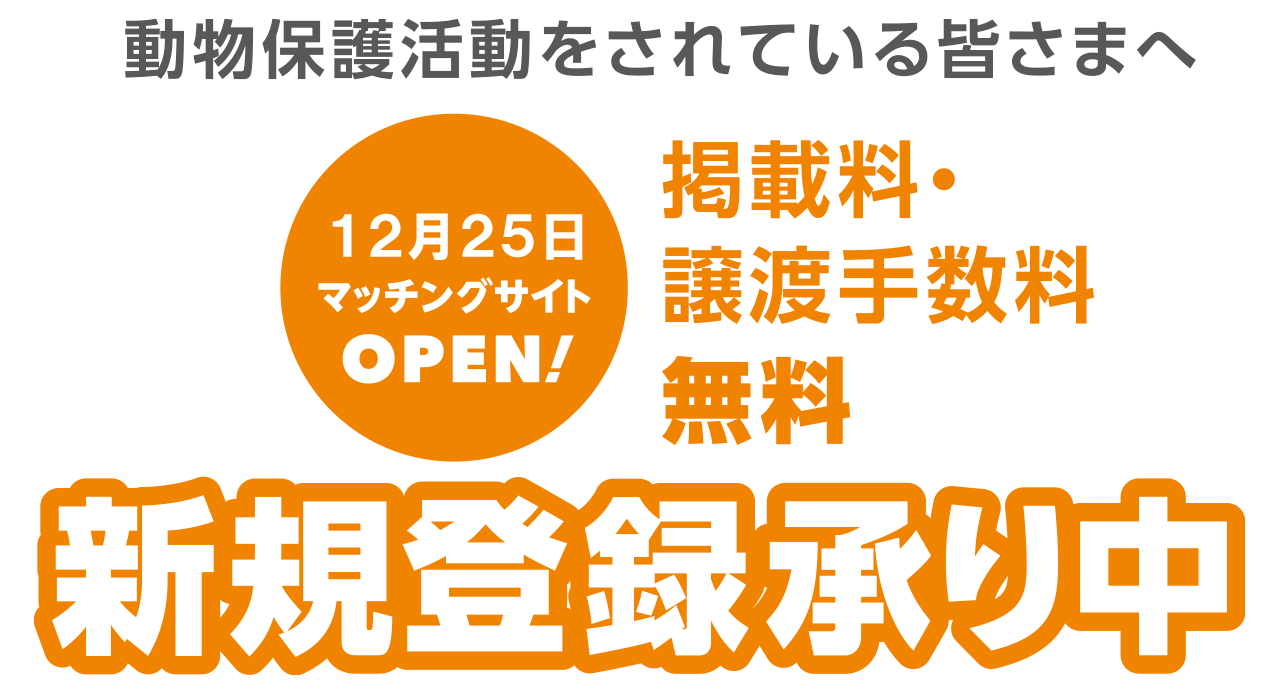
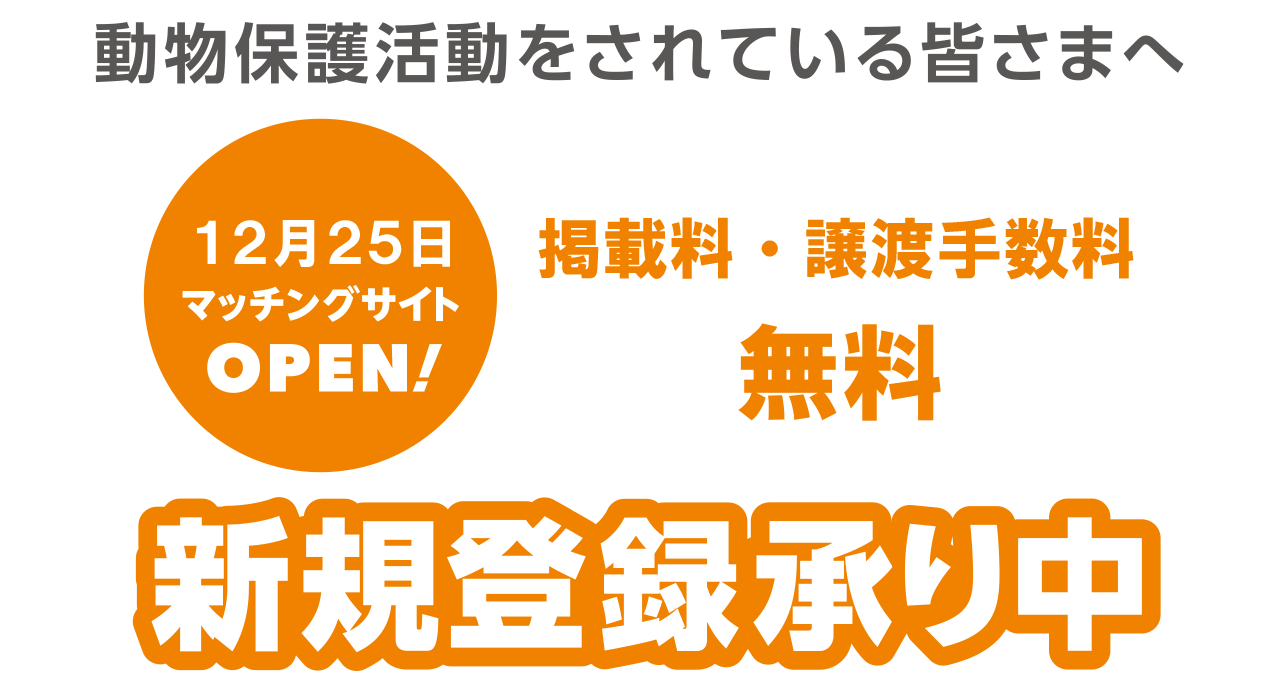
TOP修正

diff --git a/html/template/default/assets/css/reg/style.css b/html/template/default/assets/css/reg/style.css
@@ -60,6 +60,11 @@ a:active, a:focus,input:active, input:focus{outline:0;}
 	
 }
 
+.imgFull {
+	padding: 1.5rem 1rem 1.5rem 1rem;
+	text-align: center;
+}
+
 /* フッター
 ------------------------------------------------------------*/
 #footer{
@@ -155,6 +160,40 @@ section h2 span {
 	margin-bottom: 1.5rem;
 	margin-left: 1rem;
 	margin-right: 1rem;
+}
+
+.innerBorder{
+	margin: 2rem auto;
+	padding: 1.5rem 1.5rem 1.5rem 1.5rem;
+	margin-bottom: 1.5rem;
+	background-color: #FFF;
+	margin-left: 1rem;
+	margin-right: 1rem;
+
+	position: relative;
+	border: 1px solid rgb(0, 0, 0);
+	
+}
+.innerBorder:before {
+	  height: 0;
+	  display: block;
+	  position: absolute;
+	  left: -1.5px;
+	  content: "";
+	  border-top: solid 30px #fff;
+	  border-right: solid 30px transparent;
+	  top: -1.5px;
+	  z-index: 2;
+}
+.innerBorder:after {
+	  height: 0;
+	  display: block;
+	  position: absolute;
+	  left: -1px;
+	  content: "";
+	  border-top: solid 30px rgb(32, 31, 31);
+	  border-right: solid 30px transparent;
+	  top: -1px;
 }
 
 .SiteDescription{
@@ -255,6 +294,26 @@ a.btn--green {
 a.btn--green:hover {
 	color: #fff;
 	background: #028117;
+}
+
+.btn--brown,
+a.btn--brown {
+	color: #fff;
+	background-color: #543618;
+	width: 60%;
+}
+.btn--brown:hover,
+a.btn--brown:hover {
+	color: #fff;
+	background: #6b4622;
+}
+
+.btn--white,
+a.btn--white {
+	color: #000;
+	border: solid;
+	background-color: #FFF;
+	width: 60%;
 }
 
 /* SEC02 Gallery
@@ -429,7 +488,7 @@ Width <= 640px
 	a.btn,
 	button.btn {
 		margin: 1rem;
-		padding: 1.5rem 1rem;
+		padding: 1rem 1rem;
 		font-size:17px;
 	}
 }

diff --git a/html/template/default/assets/css/common.css b/html/template/default/assets/css/common.css
@@ -742,6 +742,34 @@ TOP
 }
 
 
+.top-content__container_text_btn_03{
+  text-align:center;
+}
+.top-content__container_text_btn_03 a{
+  padding:20px 20px;
+  margin-bottom:2rem;
+  border-radius:10px;
+  color:#fff;
+  font-size:20px;
+  font-weight:500;
+  letter-spacing:.1em;
+  position:relative;
+  display:block;
+}
+
+.top-content__container_text_btn_03 a:hover{
+  opacity:.8;
+}
+.top-content__container_text_btn_03 a i{
+  position:absolute;
+  top:20px;
+  left:20px;
+}
+
+.top-content__container_text_btn_03 a{
+  background-color:#f08200;
+}
+
 .top-content__container_text_btn{
   text-align:center;
 }
@@ -797,6 +825,35 @@ TOP
 .top-content__container_text_btn_02 a{
   background-color:#92d050;
 }
+
+.top-content__container_text_btn_04{
+  text-align:center;
+}
+.top-content__container_text_btn_04 a{
+  padding:20px 20px;
+  margin-bottom:2rem;
+  border-radius:10px;
+  color:#fff;
+  font-size:20px;
+  font-weight:500;
+  letter-spacing:.1em;
+  position:relative;
+  display:block;
+}
+
+.top-content__container_text_btn_04 a:hover{
+  opacity:.8;
+}
+.top-content__container_text_btn_04 a i{
+  position:absolute;
+  top:20px;
+  left:20px;
+}
+
+.top-content__container_text_btn_04 a{
+  background-color:#539b34;
+}
+
 
 
 #top-content article.top-content_01{

diff --git a/app/Customize/Service/MailService.php b/app/Customize/Service/MailService.php
@@ -27,6 +27,8 @@ use Eccube\Repository\MailHistoryRepository;
 use Eccube\Repository\MailTemplateRepository;
 use Symfony\Component\EventDispatcher\EventDispatcher;
 use Symfony\Component\EventDispatcher\EventDispatcherInterface;
+use Customize\Repository\BreedersRepository;
+use Customize\Repository\ConservationsRepository;
 
 class MailService
 {
@@ -66,6 +68,16 @@ class MailService
     protected $twig;
 
     /**
+     * @var BreedersRepository
+     */
+    protected $breedersRepository;
+
+    /**
+     * @var ConservationsRepository
+     */
+    protected $conservationsRepository;
+
+    /**
      * MailService constructor.
      *
      * @param \Swift_Mailer $mailer
@@ -75,6 +87,8 @@ class MailService
      * @param EventDispatcherInterface $eventDispatcher
      * @param \Twig_Environment $twig
      * @param EccubeConfig $eccubeConfig
+     * @param BreedersRepository $breedersRepository
+     * @param ConservationsRepository $conservationsRepository
      */
     public function __construct(
         \Swift_Mailer $mailer,
@@ -83,7 +97,9 @@ class MailService
         BaseInfoRepository $baseInfoRepository,
         EventDispatcherInterface $eventDispatcher,
         \Twig_Environment $twig,
-        EccubeConfig $eccubeConfig
+        EccubeConfig $eccubeConfig,
+        BreedersRepository $breedersRepository,
+        ConservationsRepository $conservationsRepository
     ) {
         $this->mailer = $mailer;
         $this->mailTemplateRepository = $mailTemplateRepository;
@@ -92,6 +108,8 @@ class MailService
         $this->eventDispatcher = $eventDispatcher;
         $this->eccubeConfig = $eccubeConfig;
         $this->twig = $twig;
+        $this->breedersRepository = $breedersRepository;
+        $this->conservationsRepository = $conservationsRepository;
     }
 
     /**
@@ -1212,7 +1230,7 @@ class MailService
 
     
     /**
-     * Send reply contract mail.
+     * 保護団体お問い合わせ受付（フロントページ・マイページ）
      *
      * @param \Eccube\Entity\Customer $Customer
      * @param int $data
@@ -1220,9 +1238,69 @@ class MailService
      */
     public function sendMailContractReply(\Eccube\Entity\Customer $Customer, $data)
     {
+        if($data->getMessageFrom() == 1){
+            $conservation = $this->conservations->find($Customer->getId());
+            $user_name = $conservation->getOrganizationName();
+        }
+        else{
+            $user_name = $Customer->getName01()."　".$Customer->getName02();
+        }
+
         $body = $this->twig->render('Mail/mail_contract_reply.twig', [
             'BaseInfo' => $this->BaseInfo,
-            'data' => $data
+            'data' => $data,
+            'UserName' => $user_name
+        ]);
+
+        $message = (new \Swift_Message())
+            ->setSubject('[' . $this->BaseInfo->getShopName() . '] メッセージ受信通知')
+            ->setFrom([$this->BaseInfo->getEmail01() => $this->BaseInfo->getShopName()])
+            ->setTo([$Customer->getEmail()])
+            ->setBcc($this->BaseInfo->getEmail01())
+            ->setReplyTo($this->BaseInfo->getEmail03())
+            ->setReturnPath($this->BaseInfo->getEmail04());
+
+        // HTMLテンプレートが存在する場合
+        $htmlFileName = $this->getHtmlTemplate('Mail/mail_contract_reply.twig');
+        if (!is_null($htmlFileName)) {
+            $htmlBody = $this->twig->render($htmlFileName, [
+                'BaseInfo' => $this->BaseInfo,
+                'data' => $data
+            ]);
+
+            $message
+                ->setContentType('text/plain; charset=UTF-8')
+                ->setBody($body, 'text/plain')
+                ->addPart($htmlBody, 'text/html');
+        } else {
+            $message->setBody($body);
+        }
+
+        return $this->mailer->send($message, $failures);
+    }
+
+    /**
+     * 保護団体お問い合わせ受付（フロントページ・マイページ）
+     *
+     * @param \Eccube\Entity\Customer $Customer
+     * @param int $data
+     * @return int
+     */
+    public function sendMailContractAccept(\Eccube\Entity\Customer $Customer, $site_type)
+    {
+        if($site_type == 1){
+            $breeder = $this->breedersRepository->find($Customer->getId());
+            $user_name = $breeder->getBreederName();
+        }
+        else{
+            $conservation = $this->conservationsRepository->find($Customer->getId());
+            $user_name = $conservation->getOrganizationName();
+        }
+
+        $body = $this->twig->render('Mail/mail_contract_accept.twig', [
+            'BaseInfo' => $this->BaseInfo,
+            'site_type' => $site_type,
+            'UserName' => $user_name
         ]);
 
         $message = (new \Swift_Message())

diff --git a/app/Customize/Controller/Adoption/AdoptionMemberContactController.php b/app/Customize/Controller/Adoption/AdoptionMemberContactController.php
@@ -428,7 +428,7 @@ class AdoptionMemberContactController extends AbstractController
                     $entityManager->flush();
 
                     $conservation = $this->customerRepository->find($contact->getConservation()->getId());
-                    $this->mailService->sendMailContractReply($conservation, $conservationContact);
+                    $this->mailService->sendMailContractAccept($conservation, 2);
                     return $this->redirectToRoute('adoption_contact_complete', ['pet_id' => $id]);
             }
         }
